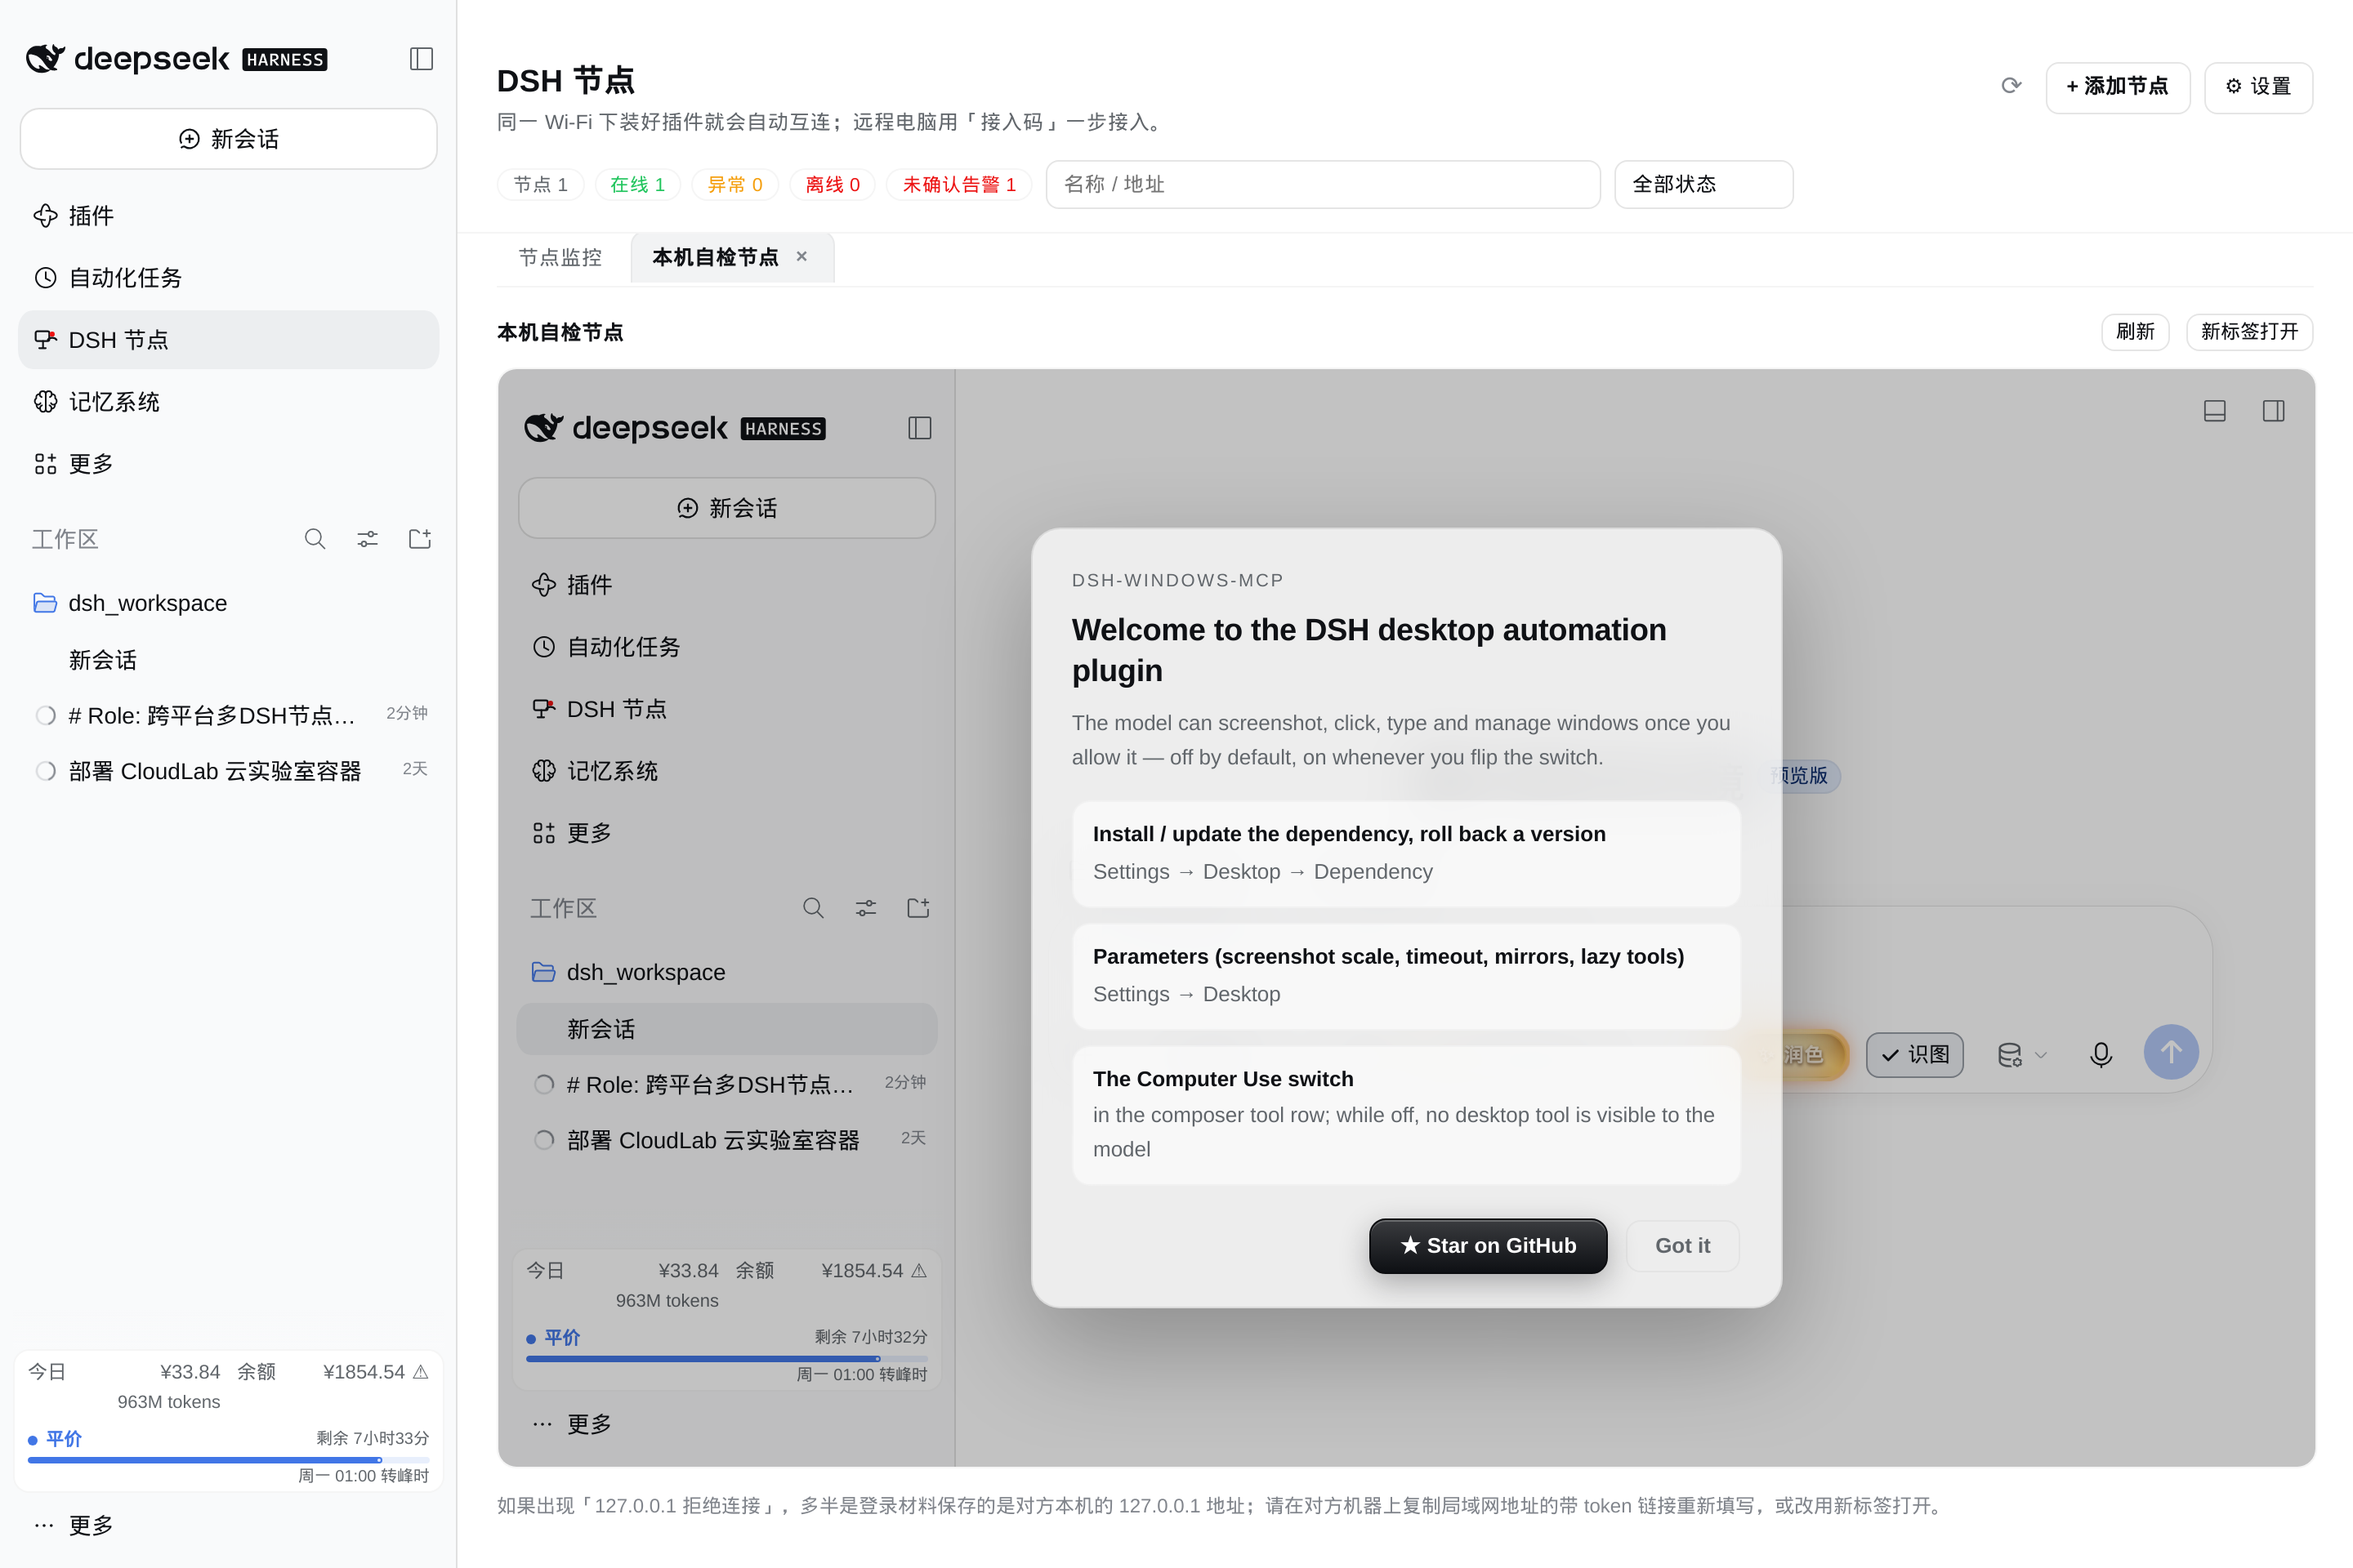
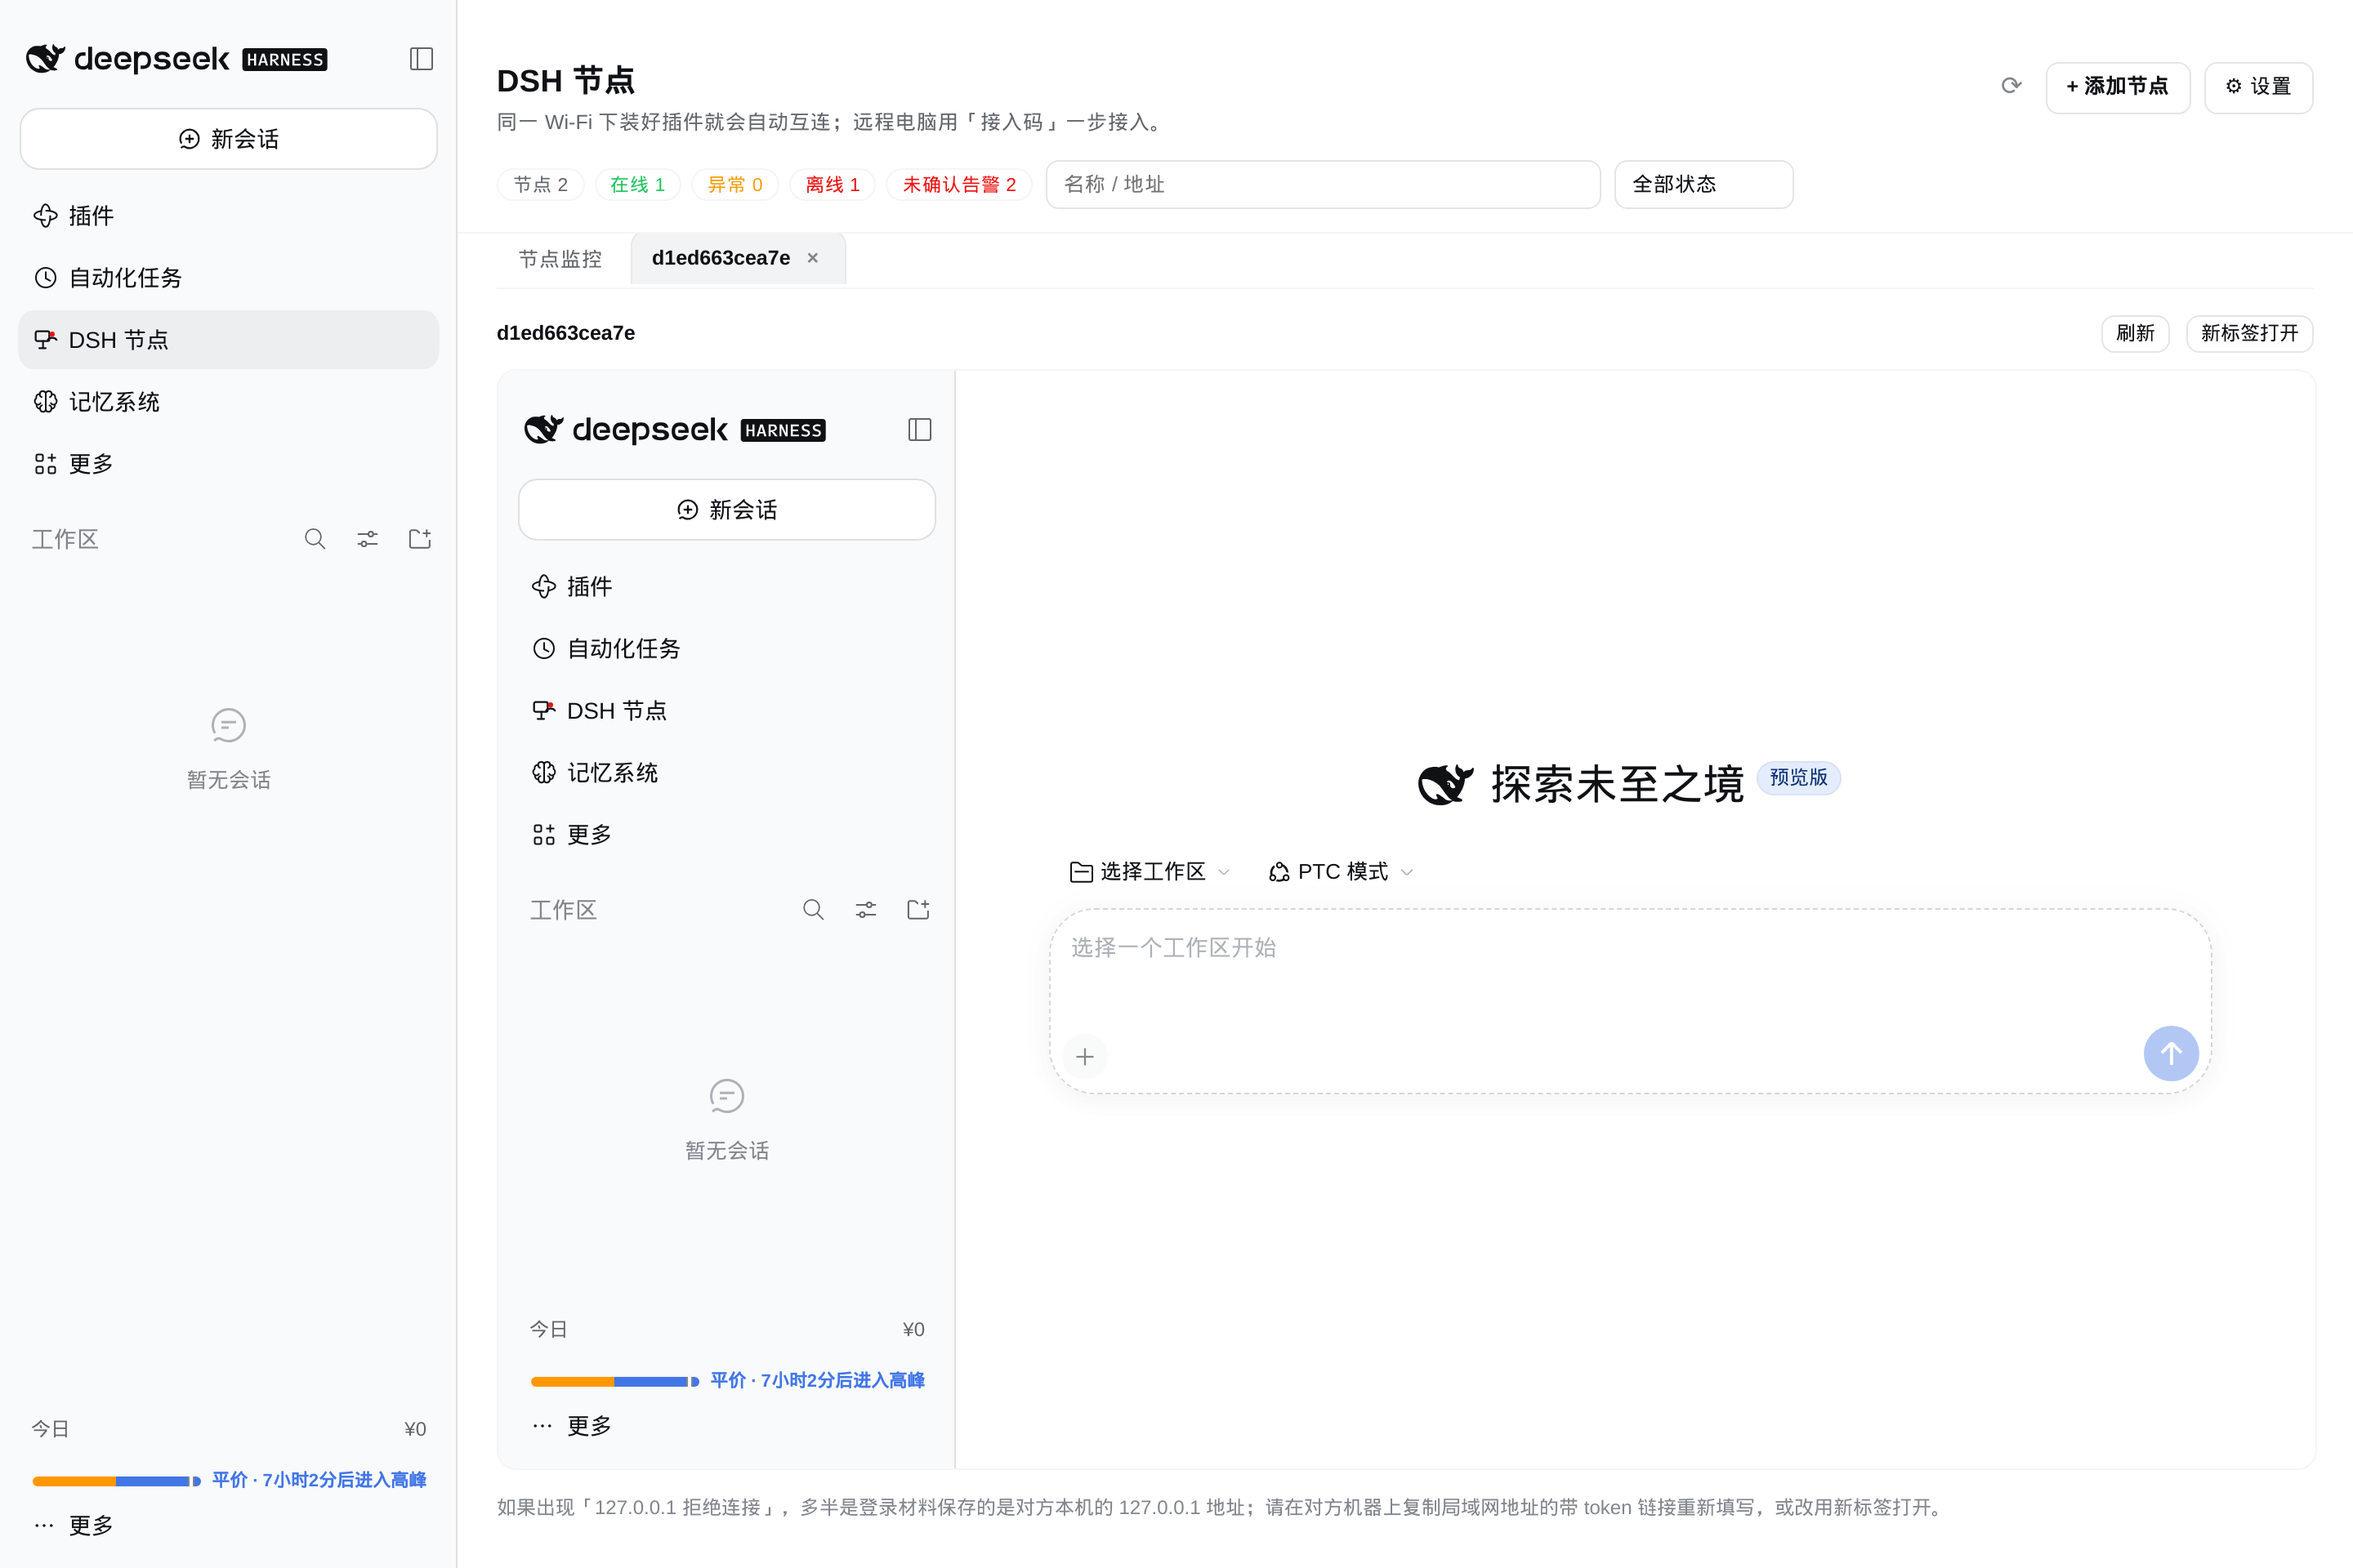
v0.10.3: per-node activity in detail, remote-only tabs
- Remove the global activity feed; detail shows the node's own activity
- Tabs list only other nodes; self has no open/embed buttons
- Update README/CHANGELOG and screenshots
- Tests 61 (34 core + 27 host)

diff --git a/lib/client.js b/lib/client.js
@@ -1703,6 +1703,7 @@ window.__ModuleLoader__.load({
         node.adapter === 'relay' ||
         (Array.isArray(node.tags) && node.tags.includes('auto'))
       const snapshot = probe?.snapshot
+      const isSelf = Array.isArray(node.tags) && node.tags.includes('self')
       const metrics = snapshot?.metrics || {}
       const sessions = snapshot?.sessions || {}
       return h(
@@ -1765,7 +1766,7 @@ window.__ModuleLoader__.load({
                 className: 'nm-card-open',
                 title: t('node.openHint'),
                 'aria-label': t('node.open'),
-                style: autoNode ? { display: 'none' } : null,
+                style: autoNode || isSelf ? { display: 'none' } : null,
                 onClick: (event) => {
                   event.stopPropagation()
                   onOpenRemote()
@@ -1780,7 +1781,7 @@ window.__ModuleLoader__.load({
                 className: 'nm-card-open nm-card-open--secondary',
                 title: t('embed.hint'),
                 'aria-label': t('embed.actions'),
-                style: autoNode ? { display: 'none' } : null,
+                style: autoNode || isSelf ? { display: 'none' } : null,
                 onClick: (event) => {
                   event.stopPropagation()
                   onEmbed()
@@ -2185,22 +2186,6 @@ window.__ModuleLoader__.load({
           filtered.length === 0
             ? h('p', { key: 'filterEmpty', className: 'nm-muted nm-filter-empty' }, t('filter.empty'))
             : null
-        ]),
-        h('section', { key: 'events', className: 'nm-section' }, [
-          h('div', { key: 'head', className: 'nm-section-head' }, [h('h3', { key: 'title' }, t('events.title'))]),
-          events.length === 0
-            ? h('p', { key: 'empty', className: 'nm-muted' }, t('events.empty'))
-            : h(
-                'ul',
-                { key: 'list', className: 'nm-event-list' },
-                events.slice(0, 12).map((event, index) =>
-                  h('li', { key: `${event.at}-${index}`, className: 'nm-event' }, [
-                    h('span', { key: 'dot', className: `nm-event-dot nm-event-dot--${event.level || 'info'}` }),
-                    h('span', { key: 'text', className: 'nm-event-text' }, eventText(event)),
-                    h('span', { key: 'time', className: 'nm-event-time' }, fmtRelative(event.at))
-                  ])
-                )
-              )
         ])
       ])
     }
@@ -3143,7 +3128,7 @@ window.__ModuleLoader__.load({
             className: 'nm-tab' + (st.tab === 'monitor' ? ' nm-tab--active' : ''),
             onClick: () => store.actions.showMonitor()
           }, t('tab.monitor')),
-          ...(data?.nodes || []).filter((node) => node.tags?.includes('self') || node.login?.configured || st.tab === node.id).map((node) =>
+          ...(data?.nodes || []).filter((node) => !(node.tags || []).includes('self') && (node.login?.configured || st.tab === node.id)).map((node) =>
             h('button', {
               key: node.id,
               className: 'nm-tab' + (st.tab === node.id ? ' nm-tab--active' : ''),

diff --git a/lib/index.js b/lib/index.js
@@ -31,7 +31,7 @@ const AUTH_FAIL_LIMIT = 20
 const REQUEST_WINDOW_MS = 60_000
 const REQUEST_LIMIT = 240
 const DISK_CACHE_MS = 30_000
-const PLUGIN_VERSION = '0.10.2'
+const PLUGIN_VERSION = '0.10.3'
 
 function normalizePublicUrl(value) {
   const text = core.cleanText(value, 300).replace(/\/+$/, '')

diff --git a/README.md b/README.md
@@ -158,8 +158,9 @@ dsh plugin add /绝对路径/dsh-node-monitor
 
 ## 统一入口与标签页（v0.10.0）
 
-- 侧栏只有一个入口 **「DSH 节点」**：顶部是刷新/添加/设置工具栏，下方是标签页。
-- 第一个标签 **「节点监控」** 显示总览与详情；点节点卡片上的「打开」，会为该节点新增一个标签，直接在应用内显示它的 DSH 界面，可随时切回监控。
+- 侧栏只有一个入口 **「DSH 节点」**：顶部标题栏集中了刷新/添加/设置、汇总指标（节点/在线/异常/离线/告警）、搜索和状态筛选；下方是标签页。
+- 第一个标签 **「节点监控」** 只显示告警与节点卡片，列表区域不再放全局动态；点卡片进入详情后才显示该节点自己的「最近活动」。
+- 第二个标签起是**其它 DSH 节点**的界面（本机除外）：在卡片上点「打开」新增标签，直接在应用内显示该节点的 DSH 界面，可随时切回监控。
 - 标签可移除（×），也可以「新标签打开」到浏览器；同一 Wi-Fi 下节点仍会自动出现。
 - 升级检查在打开设置时自动进行，发现新版后按钮直接显示「升级到 vX」，一次点击即可（升级后需重启 DSH）。
 
@@ -362,7 +363,7 @@ MIT
 
 ## 界面与交互（v0.7.1 重设计）
 
-- 顶部固定工具条：`⟳ 刷新`、`+ 添加节点`、`⚙ 设置`；所有配置类操作从页面主体收进设置抽屉，主体只留「告警 → 节点 → 最近活动」。
+- 顶部固定标题栏：`⟳ 刷新`、`+ 添加节点`、`⚙ 设置`，同栏还有汇总指标、搜索、状态筛选与标签页；所有配置类操作收进设置抽屉，主体只留告警与节点卡片（节点动态在详情页）。
 - 设置抽屉四个分区：**连接**（令牌状态、本机配对信息、接入码、版本升级）、**远程**（Hub 连接与加入链接）、**发现**（局域网节点列表）、**通用**（刷新/告警参数、版本、文档与停用提示）。
 - 节点卡改为三列紧凑指标（CPU / 内存 / 磁盘可用），状态、网络、延迟、最近在线一眼可见；移动端自动单列、隐藏次要按钮、抽屉全屏。
 - 面板内「插件版本」行支持检查更新与一键升级（v0.7.1 起）；`link:` 安装的开发目录不提供自升级，请用面板重新安装。

diff --git a/docs/CHANGELOG.md b/docs/CHANGELOG.md
@@ -1,5 +1,12 @@
 ## v0.8.0 — 2026-11-15
 
+## v0.10.3 — 2026-11-16
+
+- 总览页移除全局「最近活动」，只保留告警与节点卡片；活动记录移入各节点详情页。
+- 标签页只列出「其它节点」（本机不再占标签），且仅显示已配置登录材料或正在查看的节点。
+- 本机卡片不再显示「打开/内嵌」按钮。
+- 测试 61（34 core + 27 host）。
+
 ## v0.10.2 — 2026-11-16
 
 - 汇总指标（节点/在线/异常/离线/告警）与搜索、状态筛选移入顶部标题栏，列表区域只保留卡片与动态。
